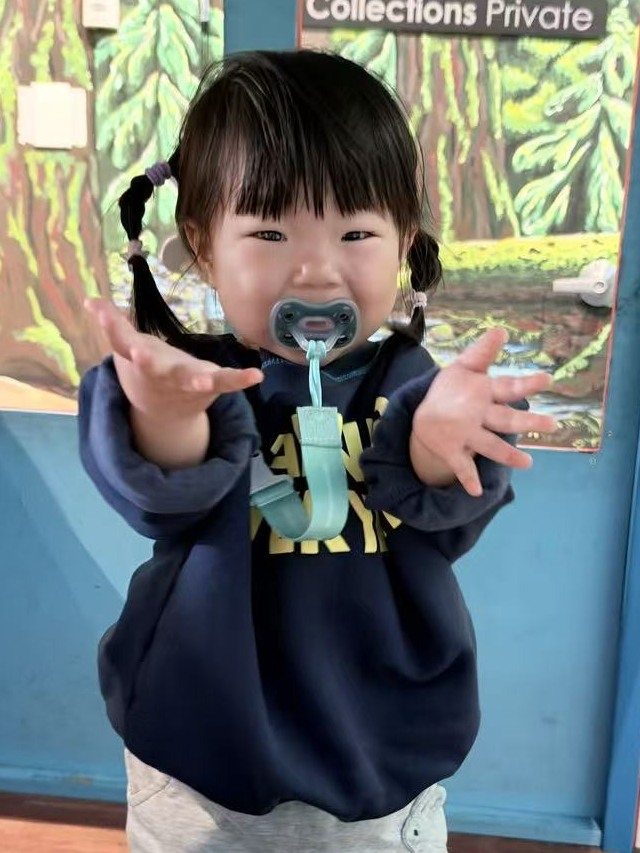
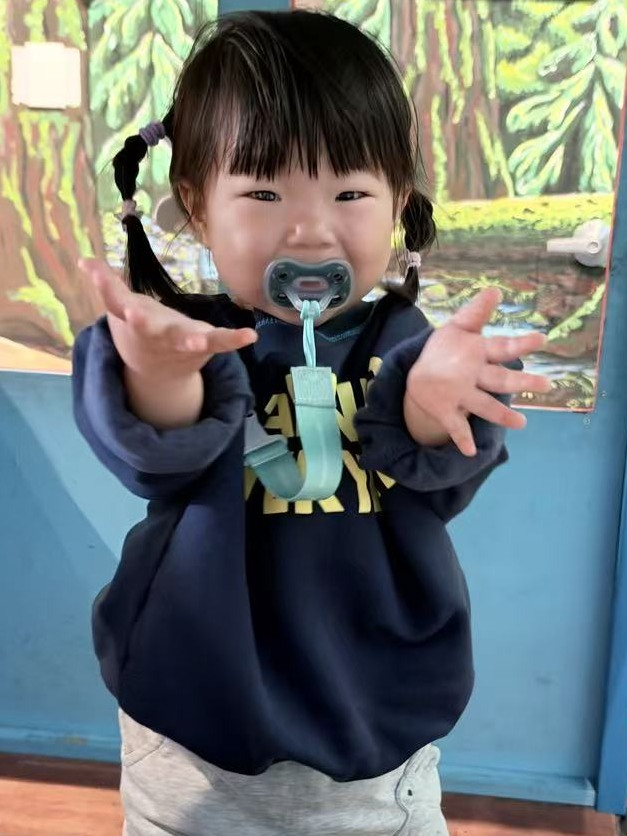
Crop sign out of photo; add persistent fullscreen button

diff --git a/index.html b/index.html
@@ -88,6 +88,12 @@
   @keyframes flicker { to { transform: translateX(-50%) scale(.92, 1.08) rotate(3deg); } }
   #big2.flip { animation: flip 1s ease-in-out; }
   @keyframes flip { 50% { transform: rotateY(90deg) scale(1.15); } }
+  #fs {
+    position: fixed; left: 16px; top: 16px; z-index: 5;
+    padding: 10px 16px; border-radius: 999px; border: 2px solid rgba(255,255,255,.4);
+    background: rgba(0,0,0,.25); color: var(--white); cursor: pointer;
+    font: 600 16px "Baloo 2", "ZCOOL KuaiLe", sans-serif;
+  }
   #mute {
     position: fixed; right: 16px; top: 16px; z-index: 5;
     padding: 10px 16px; border-radius: 999px; border: 2px solid rgba(255,255,255,.4);
@@ -173,6 +179,7 @@
   </div>
 </section>
 
+<button id="fs">⛶ 全屏 · Full screen</button>
 <button id="mute">🔇 静音 · Muted</button>
 <button id="replay" class="hidden">↻ 再来一次 · Again</button>
 
@@ -355,13 +362,19 @@ $("mute").addEventListener("click", e => {
   if (!muted) audio().resume();
 });
 
-$("startBtn").addEventListener("click", e => {
-  e.stopPropagation();
+const isFs = () => !!(document.fullscreenElement || document.webkitFullscreenElement);
+const canFs = !!(document.documentElement.requestFullscreen || document.documentElement.webkitRequestFullscreen);
+function goFullscreen() {
   const d = document.documentElement, fs = d.requestFullscreen || d.webkitRequestFullscreen;
-  try { if (fs && !document.fullscreenElement && !document.webkitFullscreenElement) { const p = fs.call(d); if (p && p.catch) p.catch(() => {}); } } catch (err) {}
-  startCountdown();
-});
-$("replay").addEventListener("click", e => { e.stopPropagation(); startCountdown(); });
+  try { if (fs && !isFs()) { const p = fs.call(d); if (p && p.catch) p.catch(() => {}); } } catch (err) {}
+}
+function updateFsBtn() { $("fs").classList.toggle("hidden", !canFs || isFs()); }
+document.addEventListener("fullscreenchange", updateFsBtn);
+document.addEventListener("webkitfullscreenchange", updateFsBtn);
+updateFsBtn();
+$("fs").addEventListener("click", e => { e.stopPropagation(); goFullscreen(); });
+$("startBtn").addEventListener("click", e => { e.stopPropagation(); goFullscreen(); startCountdown(); });
+$("replay").addEventListener("click", e => { e.stopPropagation(); goFullscreen(); startCountdown(); });
 addEventListener("pointerdown", e => {
   if (!celebrating) return;
   launch(e.clientX, e.clientY);
